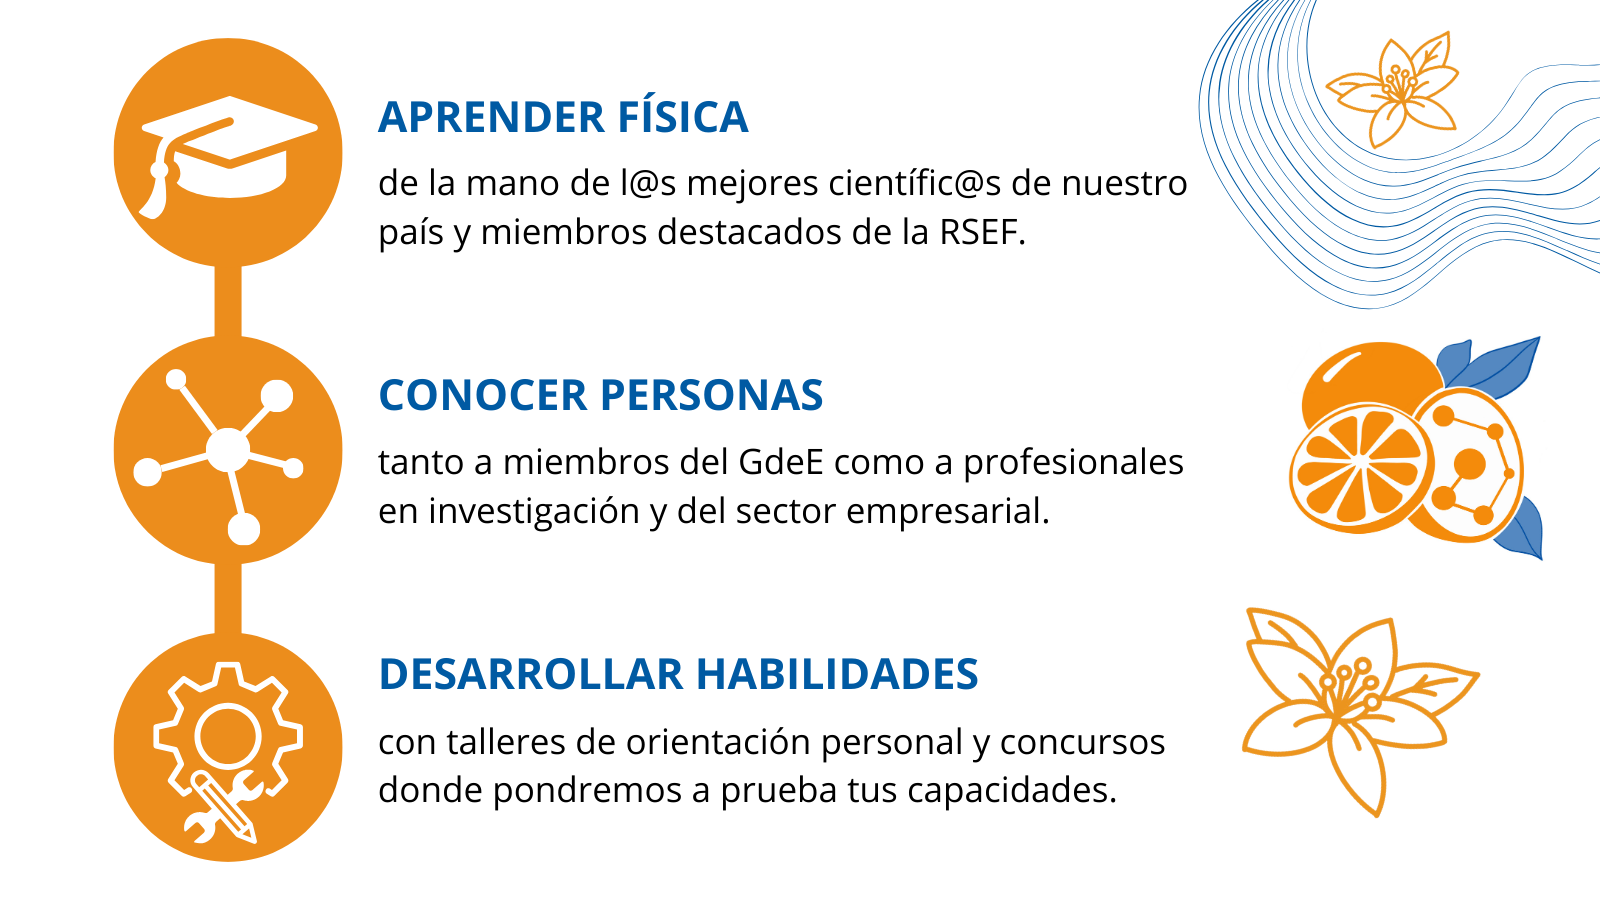
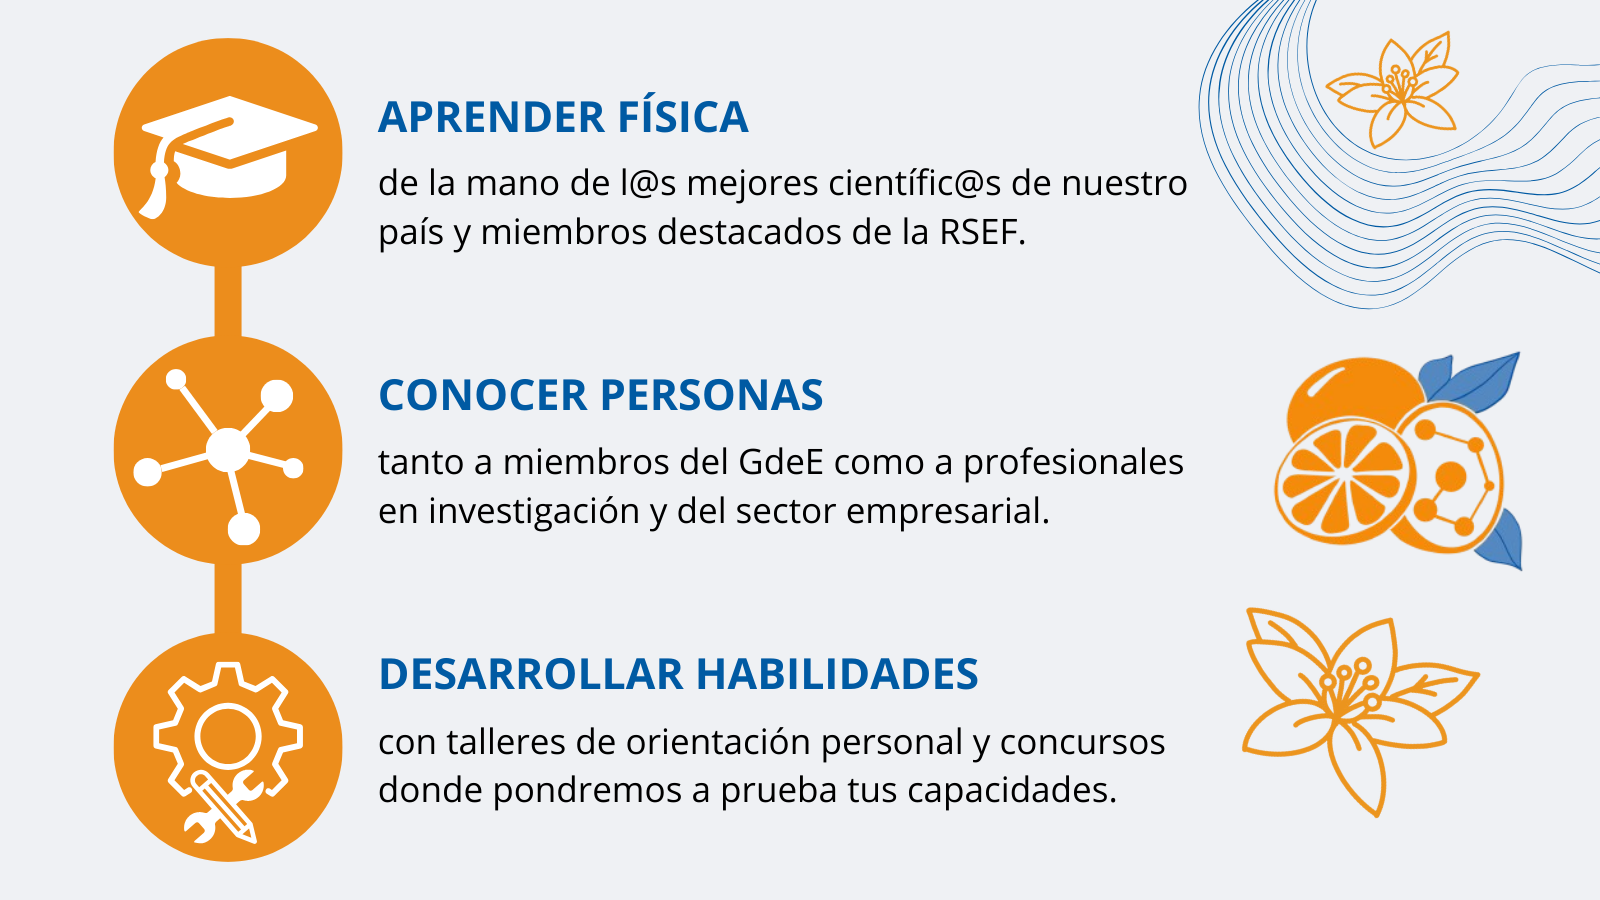
Colores de fotos arreglados

Changed region(s): [[0.7812, 0.3733, 0.9688, 0.6533]]

diff --git a/ENEF/2026/ENEF26_Speakers.html b/ENEF/2026/ENEF26_Speakers.html
@@ -9,7 +9,7 @@ thumbnail: "/ENEF/2025/img/Logo.png"
   <div class="container">
     <div class="section">
       <!-- BANNER -->
-      <img class="materialboxed" width="100%" src="/ENEF/2025/img/ENEF25_Banner.png">
+      <img class="materialboxed" width="100%" src="/ENEF/2026/img/Banner ENEF26.png">
       
       <h2 class="center">Ponentes Invitados</h2>      
       <div class="speakers-intro">
